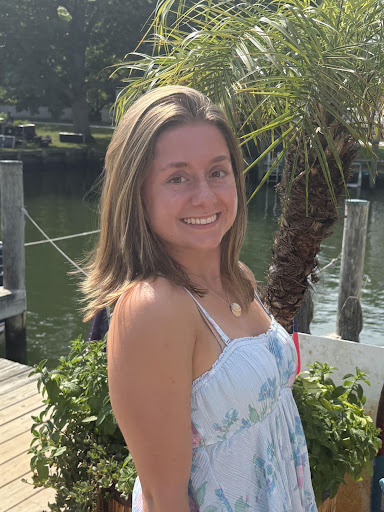
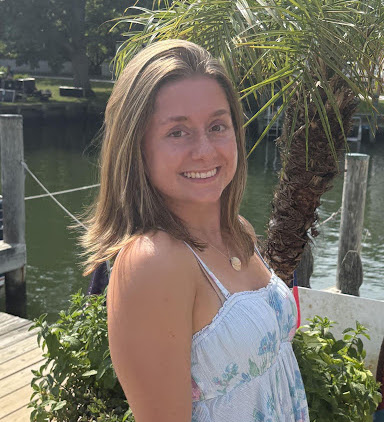
New Board Bio updates

diff --git a/index.html b/index.html
@@ -110,7 +110,7 @@
           <li class="splide__slide">
             <div class="exec-card">
               <div class="exec-card__photo-wrap">
-                <div class="exec-card__photo"><img src="assets/board_pics/zoya.png" alt="Zoya Rahman"></div>
+                <div class="exec-card__photo"><img src="assets/board_pics/zoya.jpg" alt="Zoya Rahman"></div>
                 <div class="exec-card__bio">
                   <p>Hi, I'm Zoya, Co President of Feedback and founder of IMMERSE! I'm an Immersive Media Design B.A. senior, dual degreeing
                     with Computer Science.
@@ -143,7 +143,7 @@
               <div class="exec-card__photo-wrap">
                 <div class="exec-card__photo"><img src="assets/board_pics/mykha.png" alt="Mykha Lizette Floresca"></div>
                 <div class="exec-card__bio">
-                  <p>Add a short bio for this member here.</p>
+                  <p>Bio coming soon!</p>
                 </div>
               </div>
               <p class="exec-card__name">Mykha Lizette Floresca</p>
@@ -153,9 +153,9 @@
           <li class="splide__slide">
             <div class="exec-card">
               <div class="exec-card__photo-wrap">
-                <div class="exec-card__photo"></div>
+                <div class="exec-card__photo"><img src="assets/board_pics/disha.jpg" alt="Disha Ramesh"></div>
                 <div class="exec-card__bio">
-                  <p>Add a short bio for this member here.</p>
+                  <p>Hi! My name is Disha and I’m the Finance Director for Immerse this year! I’m a junior majoring in Immersive Media Design (BS) and Computer Science. As Finance Director I deal with everything money so that we can host all the cool events we want to!</p>
                 </div>
               </div>
               <p class="exec-card__name">Disha Ramesh</p>
@@ -209,7 +209,7 @@
               <div class="exec-card__photo-wrap">
                 <div class="exec-card__photo"><img src="assets/board_pics/mia.png" alt="Mia Smith"></div>
                 <div class="exec-card__bio">
-                  <p>Add a short bio for this member here.</p>
+                  <p>Bio coming soon!</p>
                 </div>
               </div>
               <p class="exec-card__name">Mia Smith</p>
@@ -235,7 +235,7 @@
               <div class="exec-card__photo-wrap">
                 <div class="exec-card__photo"><img src="assets/board_pics/selina.png" alt="Selina Li"></div>
                 <div class="exec-card__bio">
-                  <p>Add a short bio for this member here.</p>
+                  <p>Bio coming soon!</p>
                 </div>
               </div>
               <p class="exec-card__name">Selina Li</p>
@@ -261,7 +261,7 @@
               <div class="exec-card__photo-wrap">
                 <div class="exec-card__photo"><img src="assets/board_pics/kelly.png" alt="Kelly He"></div>
                 <div class="exec-card__bio">
-                  <p>Add a short bio for this member here.</p>
+                  <p>Bio coming soon!</p>
                 </div>
               </div>
               <p class="exec-card__name">Kelly He</p>
@@ -271,9 +271,9 @@
           <li class="splide__slide">
             <div class="exec-card">
               <div class="exec-card__photo-wrap">
-                <div class="exec-card__photo"><img src="assets/board_pics/kathy.png" alt="Kathy Ma"></div>
+                <div class="exec-card__photo"><img src="assets/board_pics/kathy.jpg" alt="Kathy Ma"></div>
                 <div class="exec-card__bio">
-                  <p>Add a short bio for this member here.</p>
+                  <p>Hello! My name is Kathy and I’m a sophomore majoring in Immersive Media Design B.A. I’m the Sophomore Representative for Immerse, so I provide input based on my experiences as an underclassman!</p>
                 </div>
               </div>
               <p class="exec-card__name">Kathy Ma</p>
